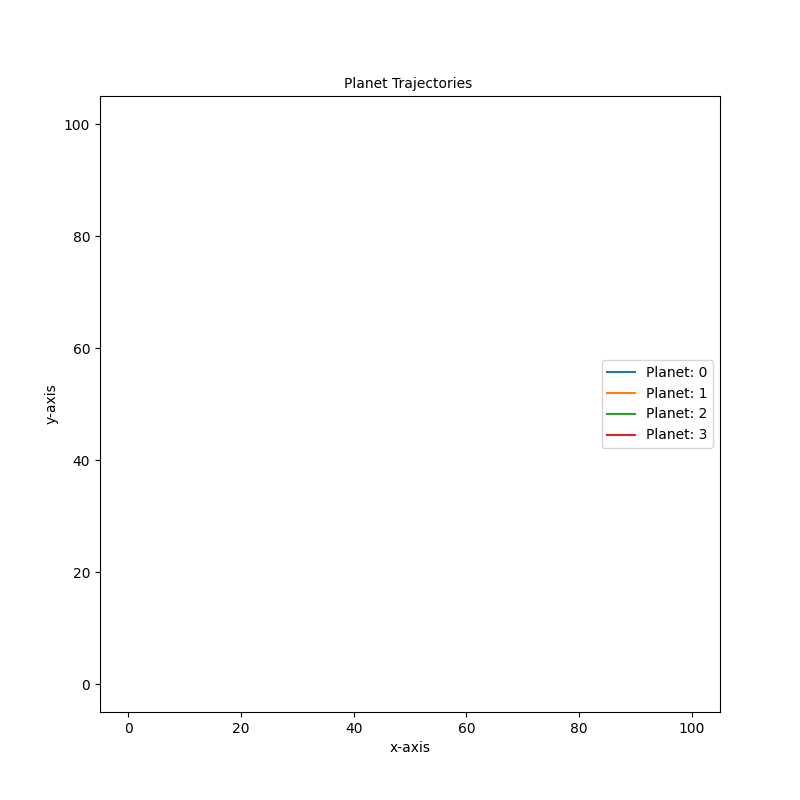
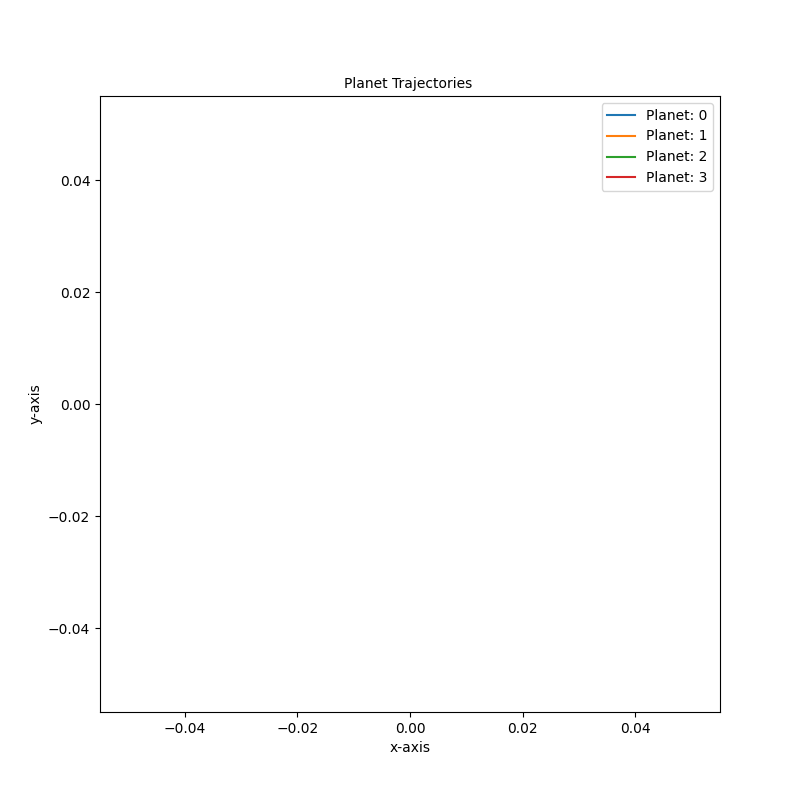
BB plots correctly

diff --git a/CA.py b/CA.py
@@ -7,37 +7,29 @@ import numpy as np
 
 def main(m0, m1, vx0, vy0, x0, y0, vx1, vy1, x1, y1, order_1st_half, order_2nd_half, 
          time_step_over_m0, time_step_over_m1, dx, dy, temp, temp_fx, temp_fy, net_fx, 
-         net_fy, temp_f, logs, epoch, time_step, planet_list, save_order0, save_order1):
+         net_fy, temp_f, logs, epoch, time_step):
     for i in range(epoch):
         dx = x1 - x0
         dy = y1 - y0
         temp = 6.67430e-11 * m0 * m1 / (dx**2 + dy**2)**1.5
+        '''
         temp_fx, temp_fy = temp * dx, temp * dy
-        #ok
+        print(net_fx)
+        print(order_1st_half)
+        print(temp_fx)
         np.add.at(net_fx, order_1st_half, temp_fx)
         np.subtract.at(net_fx, order_2nd_half, temp_fx)
         np.add.at(net_fy, order_1st_half, temp_fy)
         np.subtract.at(net_fy, order_2nd_half, temp_fy)
-        
-        #[ 0.00000000e+00 -2.00229000e-10 -9.43888558e-11 -1.41583284e-10-5.33944000e-10  0.00000000e+00]
-        #[0, 0, 0, 1, 1, 2]
-        #[1, 2, 3, 2, 3, 3]
-        #[-9.43888558e-11 -5.33944000e-10  1.41583284e-10  0.00000000e+00]
-        #print(net_fx)
-        #print(net_fy)
         '''
         temp_fx, temp_fy = temp * dx, temp * dy
         temp_f = temp_fx + temp_fy
         np.add.at(net_fx, order_1st_half, temp_f)
         np.subtract.at(net_fy, order_2nd_half, temp_f)
-        '''
         #---------------------------
-        #ok
-        len_planet_list = len(planet_list)
-        logs[i*len_planet_list: i*len_planet_list+3] = x0[save_order0]
-        logs[i*len_planet_list+3] = x1[save_order1]
-        logs[i*len_planet_list+4: i*len_planet_list+7] = y0[save_order0]
-        logs[i*len_planet_list+7] = y1[save_order1]
+        len_x0 = len(x0)
+        logs[i*len_x0:(i+1)*len_x0] = x0
+        logs[(i+1)*len_x0:(i+2)*len_x0] = y0
 
         x0 += vx0 * time_step
         y0 += vy0 * time_step
@@ -47,5 +39,3 @@ def main(m0, m1, vx0, vy0, x0, y0, vx1, vy1, x1, y1, order_1st_half, order_2nd_h
         vy0 += net_fy[order_1st_half] * time_step_over_m0
         vx1 += net_fx[order_2nd_half] * time_step_over_m1
         vy1 += net_fy[order_2nd_half] * time_step_over_m1
-        net_fx = np.zeros(len_planet_list)
-        net_fy = np.zeros(len_planet_list)

diff --git a/final.py b/final.py
@@ -14,7 +14,7 @@ from math import sqrt
 
 #MAIN-----------------------------------------------
 #USER INPUT-----------------------------------------------
-'''
+
 PlanetsInstantaneous = []
 PlanetsResults = []
 
@@ -29,7 +29,7 @@ for i, planetList in enumerate(IOHandler1.readPlanetData()):
         PlanetsInstantaneous[i].append(float(p))#mass,vx,vy,x,y,fx,fy
     PlanetsResults.append([])
 time_step, epoch = int(IOHandler1.getUserInput("Enter the level of precision(recommended: 100)", "Enter an integer: ")), int(IOHandler1.getUserInput("Enter the numper of steps to simulate(recommended: 100000)", "Enter an integer: "))
-'''
+
 
 @njit(parallel=True)
 def test(unique_permutations):
@@ -100,16 +100,18 @@ def main(PlanetsInstantaneous, PlanetsResults, unique_permutations, epoch, time_
             PlanetsResults[i].extend((x,y))#marginally faster than two append
             #velocity euler
             #temp = time_step / m
-            resultvx, resultvy = vx + fx * m, vy + fy * m
+            resultvx, resultvy = vx + fx * time_step / m, vy + fy * time_step / m
             #location euler
             resultx, resulty = x + vx * time_step, y + vy * time_step
             #override planet list
             PlanetsInstantaneous[i] = [m, resultvx, resultvy, resultx, resulty, 0, 0]
+
 '''
-    print(f"it/s: {steps/(time()-start)}")
-    plot(PlanetsResults)
-    #plotColorTest(PlanetsResults)
-    #IOHandler1.writeResults(list_planet)
+print(f"it/s: {steps/(time()-start)}")
+plot(PlanetsResults)
+#plotColorTest(PlanetsResults)
+#IOHandler1.writeResults(list_planet)
+'''
 
 if __name__ == "__main__":
     #lp = LineProfiler()
@@ -117,7 +119,10 @@ if __name__ == "__main__":
     #lp_wrapper = lp(main)
     #lp_wrapper()
     #lp.print_stats()
+    unique_permutations = list(combinations(range(len(PlanetsInstantaneous)), 2))
+    print(PlanetsInstantaneous)
+    print(unique_permutations)
     start = time()
-    main()
+    main(PlanetsInstantaneous, PlanetsResults, unique_permutations, epoch, time_step)
     print(f"it/s: {epoch/(time()-start)}")
-'''
+    plot(PlanetsResults)

diff --git a/BB_Check.py b/BB_Check.py
@@ -1,5 +1,5 @@
 #from IOHandler import *
-#from Plotting import *
+from Plotting import *
 from math import sqrt
 from time import time
 '''
@@ -13,27 +13,24 @@ time_step, epoch = int(IOHandler1.getUserInput("Enter the level of precision(rec
 def main(list_list, list_permutation_list, epoch, time_step):
     for _ in range(epoch):#simulation loop, tqdm for progres bar
         for p0, p1 in list_permutation_list:
-            m0, _, _, x0, y0, _, _, _, _ = p0
-            m1, _, _, x1, y1, _, _, _, _  = p1
+            m0, _, _, x0, y0, _, _, _, _ = a = list_list[p0]
+            m1, _, _, x1, y1, _, _, _, _ = b = list_list[p1]
             dx = x1 - x0
             dy = y1 - y0 
             temp = 6.67430e-11 * m0 * m1 / (dx**2 + dy**2)**1.5
-            if dx != 0:
-                fx = temp * dx
-                p0[5] += fx
-                p1[5] -= fx
-            if dy != 0:
-                fy = temp * dy
-                p0[6] += fy
-                p1[6] -= fy
-        for p in list_list:
+            fx, fy = temp * dx, temp * dy
+            a[5] += fx
+            b[5] -= fx
+            a[6] += fy
+            b[6] -= fy
+        for i, p in enumerate(list_list):
             m, vx, vy, x, y, net_fx, net_fy, time_step_over_m, history= p
             p[8].extend((x, y))
             new_vx = vx + net_fx * time_step_over_m
             new_vy = vy + net_fy * time_step_over_m
             new_x = x + vx * time_step
             new_y = y + vy * time_step
-            p = [m, new_vx, new_vy, new_x, new_y, 0, 0, time_step_over_m, history]
+            list_list[i] = [m, new_vx, new_vy, new_x, new_y, 0, 0, time_step_over_m, history]
 '''
 #if __name__ == "__main__":
     start = time()

diff --git a/Check.py b/Check.py
@@ -6,13 +6,13 @@ import AB
 import AC
 import AD
 import BA
-import BB
+import BB_Check
 import CA_Check
 import CB
 
 planet_list = [[100.0,0,0,100,100, 0, 0], [200.0,0,0,100,0, 0, 0], [300.0,0,0,0,100, 0, 0], [400.0,0,0,0,0, 0, 0]]
 #epoch, time_step = 100000 ,10
-epoch, time_step = 3 ,10
+epoch, time_step = 1000000 ,10
 
 index_permutations = [(0, 1), (0, 2), (0, 3), (1, 2), (1, 3), (2, 3)]
 
@@ -52,8 +52,16 @@ time_step_over_m0, time_step_over_m1 = time_step / m0, time_step / m1
 save_order0 = np.array([0,3,5], dtype=int)
 save_order1 = np.array([2], dtype=int)
 
-CA_Check.main(m0, m1, vx0, vy0, x0, y0, vx1, vy1, x1, y1, order_1st_half, order_2nd_half, 
-         time_step_over_m0, time_step_over_m1, dx, dy, temp, temp_fx, temp_fy, net_fx, 
-         net_fy, temp_f, logs, epoch, time_step, planet_list, save_order0, save_order1)
+#CA_Check.main(m0, m1, vx0, vy0, x0, y0, vx1, vy1, x1, y1, order_1st_half, order_2nd_half, 
+#         time_step_over_m0, time_step_over_m1, dx, dy, temp, temp_fx, temp_fy, net_fx, 
+#         net_fy, temp_f, logs, epoch, time_step, planet_list, save_order0, save_order1)
 
-plotNew(logs)
+#plot_CA_Check(logs)
+
+
+BB_planet_list = []
+BB_planet_list = [e + [time_step/e[0], []] for e in planet_list]
+BB_planet_permutation_lists = list(combinations(range(len(BB_planet_list)), 2))
+BB_Check.main(BB_planet_list, BB_planet_permutation_lists, epoch, time_step)
+
+plot([e[8] for e in BB_planet_list])

diff --git a/Plotting.py b/Plotting.py
@@ -71,7 +71,7 @@ def plotColorTest(list_planet):
 
     plt.show()#show plot
 
-def plotNew(logs):
+def plot_CA_Check(logs):
     plt.figure(figsize=(8, 8))#set plot size
     x0 = []
     x1 = []
@@ -94,6 +94,28 @@ def plotNew(logs):
     plt.plot(x1, y1, label=f'Planet: {1}')
     plt.plot(x2, y2, label=f'Planet: {2}')
     plt.plot(x3, y3, label=f'Planet: {3}')
+    plt.title('Planet Trajectories ', fontsize=10)#Plot title
+    plt.xlabel('x-axis', fontsize=10)#Axis naming
+    plt.ylabel('y-axis', fontsize=10)
+    plt.legend()#Place line labels on plot
+
+    i = 0
+    while os.path.isfile(f'plot {i}.png'):#infinite loop, check if there are already pngs saved, increment png number till no duplicates found, save file then evit loop
+        i += 1
+    plt.savefig(f'plot {i}.png')
+
+    plt.show()#show plot
+
+
+def plot_BB_Check(list_planet):
+    plt.figure(figsize=(8, 8))#set plot size
+    for index, element in enumerate(list_planet):#Loop over list of planets to get list of coordinates, list of coordinates added to plot
+        x = []
+        y = []
+        for i in range(0, len(element[8]), 2):
+            x.append(element[8][i])
+            y.append(element[8][i+1])
+        plt.plot(x, y, label=f'Planet: {index}')
     plt.title('Planet Trajectories ', fontsize=10)#Plot title
     plt.xlabel('x-axis', fontsize=10)#Axis naming
     plt.ylabel('y-axis', fontsize=10)

diff --git a/CB.py b/CB.py
@@ -3,6 +3,7 @@
 from math import sqrt
 from time import time
 from numba import jit
+import numpy as np
 
 #@jit(forceobj = True)
 def main(m, vx, vy, x, y, order_1st_half, order_2nd_half, 
